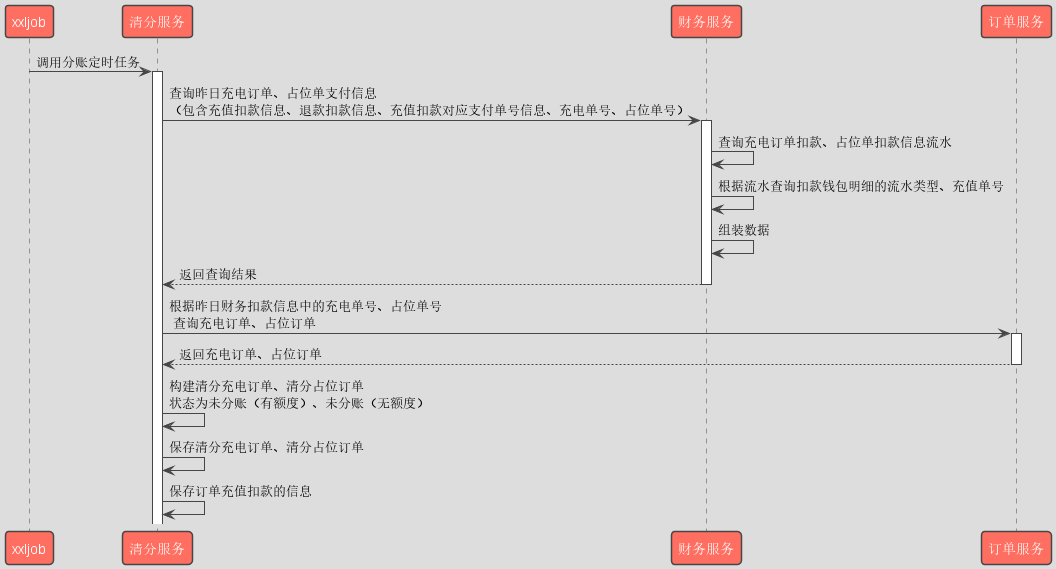
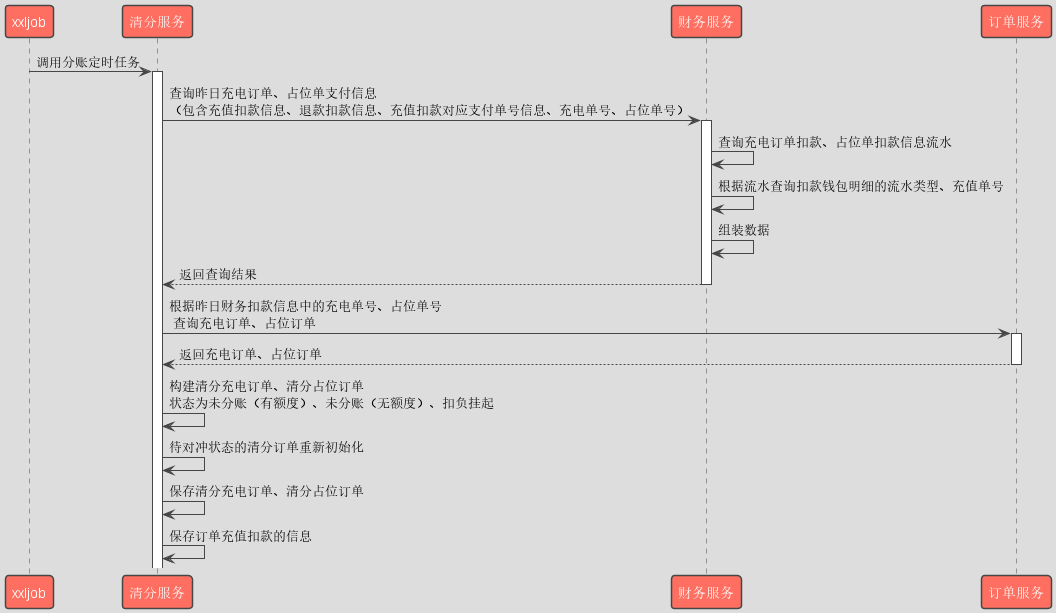
泸州能投清分时序图调整

diff --git a/demo_lean/java_basis/src/main/java/com/gjk/javabasis/juc/completableFuture/test.java b/demo_lean/java_basis/src/main/java/com/gjk/javabasis/juc/completableFuture/test.java
@@ -1,0 +1,50 @@
+package com.gjk.javabasis.juc.completableFuture;
+
+import java.util.concurrent.CompletableFuture;
+import java.util.concurrent.ExecutorService;
+import java.util.concurrent.LinkedBlockingQueue;
+import java.util.concurrent.ThreadPoolExecutor;
+import java.util.concurrent.TimeUnit;
+
+import cn.hutool.core.thread.ThreadFactoryBuilder;
+
+/**
+ * @author: gaojiankang
+ * @Desc:
+ * @create: 2024-08-09 11:25
+ **/
+public class test {
+
+    private static ExecutorService executor = new ThreadPoolExecutor(
+            Runtime.getRuntime().availableProcessors(),
+            Runtime.getRuntime().availableProcessors() * 2,
+            30L,
+            TimeUnit.SECONDS,
+            new LinkedBlockingQueue<>(500),
+            new ThreadFactoryBuilder().setNamePrefix("order-feign").build(),
+            new ThreadPoolExecutor.CallerRunsPolicy()
+    );
+
+    public static void main(String[] args) {
+
+        CompletableFuture<Void> oneFuture = CompletableFuture.runAsync(() -> {
+            try {
+                Thread.sleep(2000);
+            } catch (InterruptedException e) {
+                throw new RuntimeException(e);
+            }
+            System.out.println("runAsync :" + Thread.currentThread().getName());
+            throw new RuntimeException("异步异常");
+        }, executor).whenComplete((r, e) -> {
+            if (e != null) {
+                System.out.println("whenComplete ：" + Thread.currentThread().getName() + "，异常信息：" + e.getMessage());
+            } else {
+                System.out.println("oneFuture 正常：" + r);
+            }
+        });
+        oneFuture.join();
+        System.out.println("main :" + Thread.currentThread().getName());
+
+
+    }
+}

diff --git a/demo_lean/src/main/java/Test.java b/demo_lean/src/main/java/Test.java
@@ -1,6 +1,7 @@
 package main.java;
 
-import java.util.concurrent.CompletableFuture;
+import com.alibaba.fastjson.JSON;
+import com.alibaba.fastjson.JSONObject;
 
 import lombok.extern.slf4j.Slf4j;
 
@@ -16,25 +17,12 @@ import lombok.extern.slf4j.Slf4j;
 public class Test {
 
 
+    public static void main(String[] args) {
+        String str = "\"{\\\"content\\\":\\\"{\\\\\\\"notifyType\\\\\\\":1,\\\\\\\"paymentStatus\\\\\\\":1,\\\\\\\"terminalId\\\\\\\":\\\\\\\"1827898690985701378\\\\\\\",\\\\\\\"userId\\\\\\\":\\\\\\\"1828259733142470657\\\\\\\"}\\\",\\\"id\\\":\\\"1827898690985701378\\\",\\\"topicClass\\\":\\\"com.qcln.charge.server.application.redis.handler.StartChargeResultHandler\\\"}\"";
 
-    public static void main(String args[]) {
+        JSONObject jsonObject = JSON.parseObject(str);
 
-        CompletableFuture<Void> completableFuture = CompletableFuture.runAsync(() -> {
 
-            try {
-                System.out.println("runAsync:" + Thread.currentThread().getName());
-                throw new RuntimeException("error");
-            } catch (RuntimeException e) {
-                System.out.println("发生异常，捕获:" + Thread.currentThread().getName());
-            }
-        }).whenComplete((v, t) -> {
-            if (t != null) {
-                System.out.println("error:" + Thread.currentThread().getName());
-            } else {
-                System.out.println("whenComplete:" + Thread.currentThread().getName());
-            }
-        });
-        System.out.println("main");
     }
 
 
